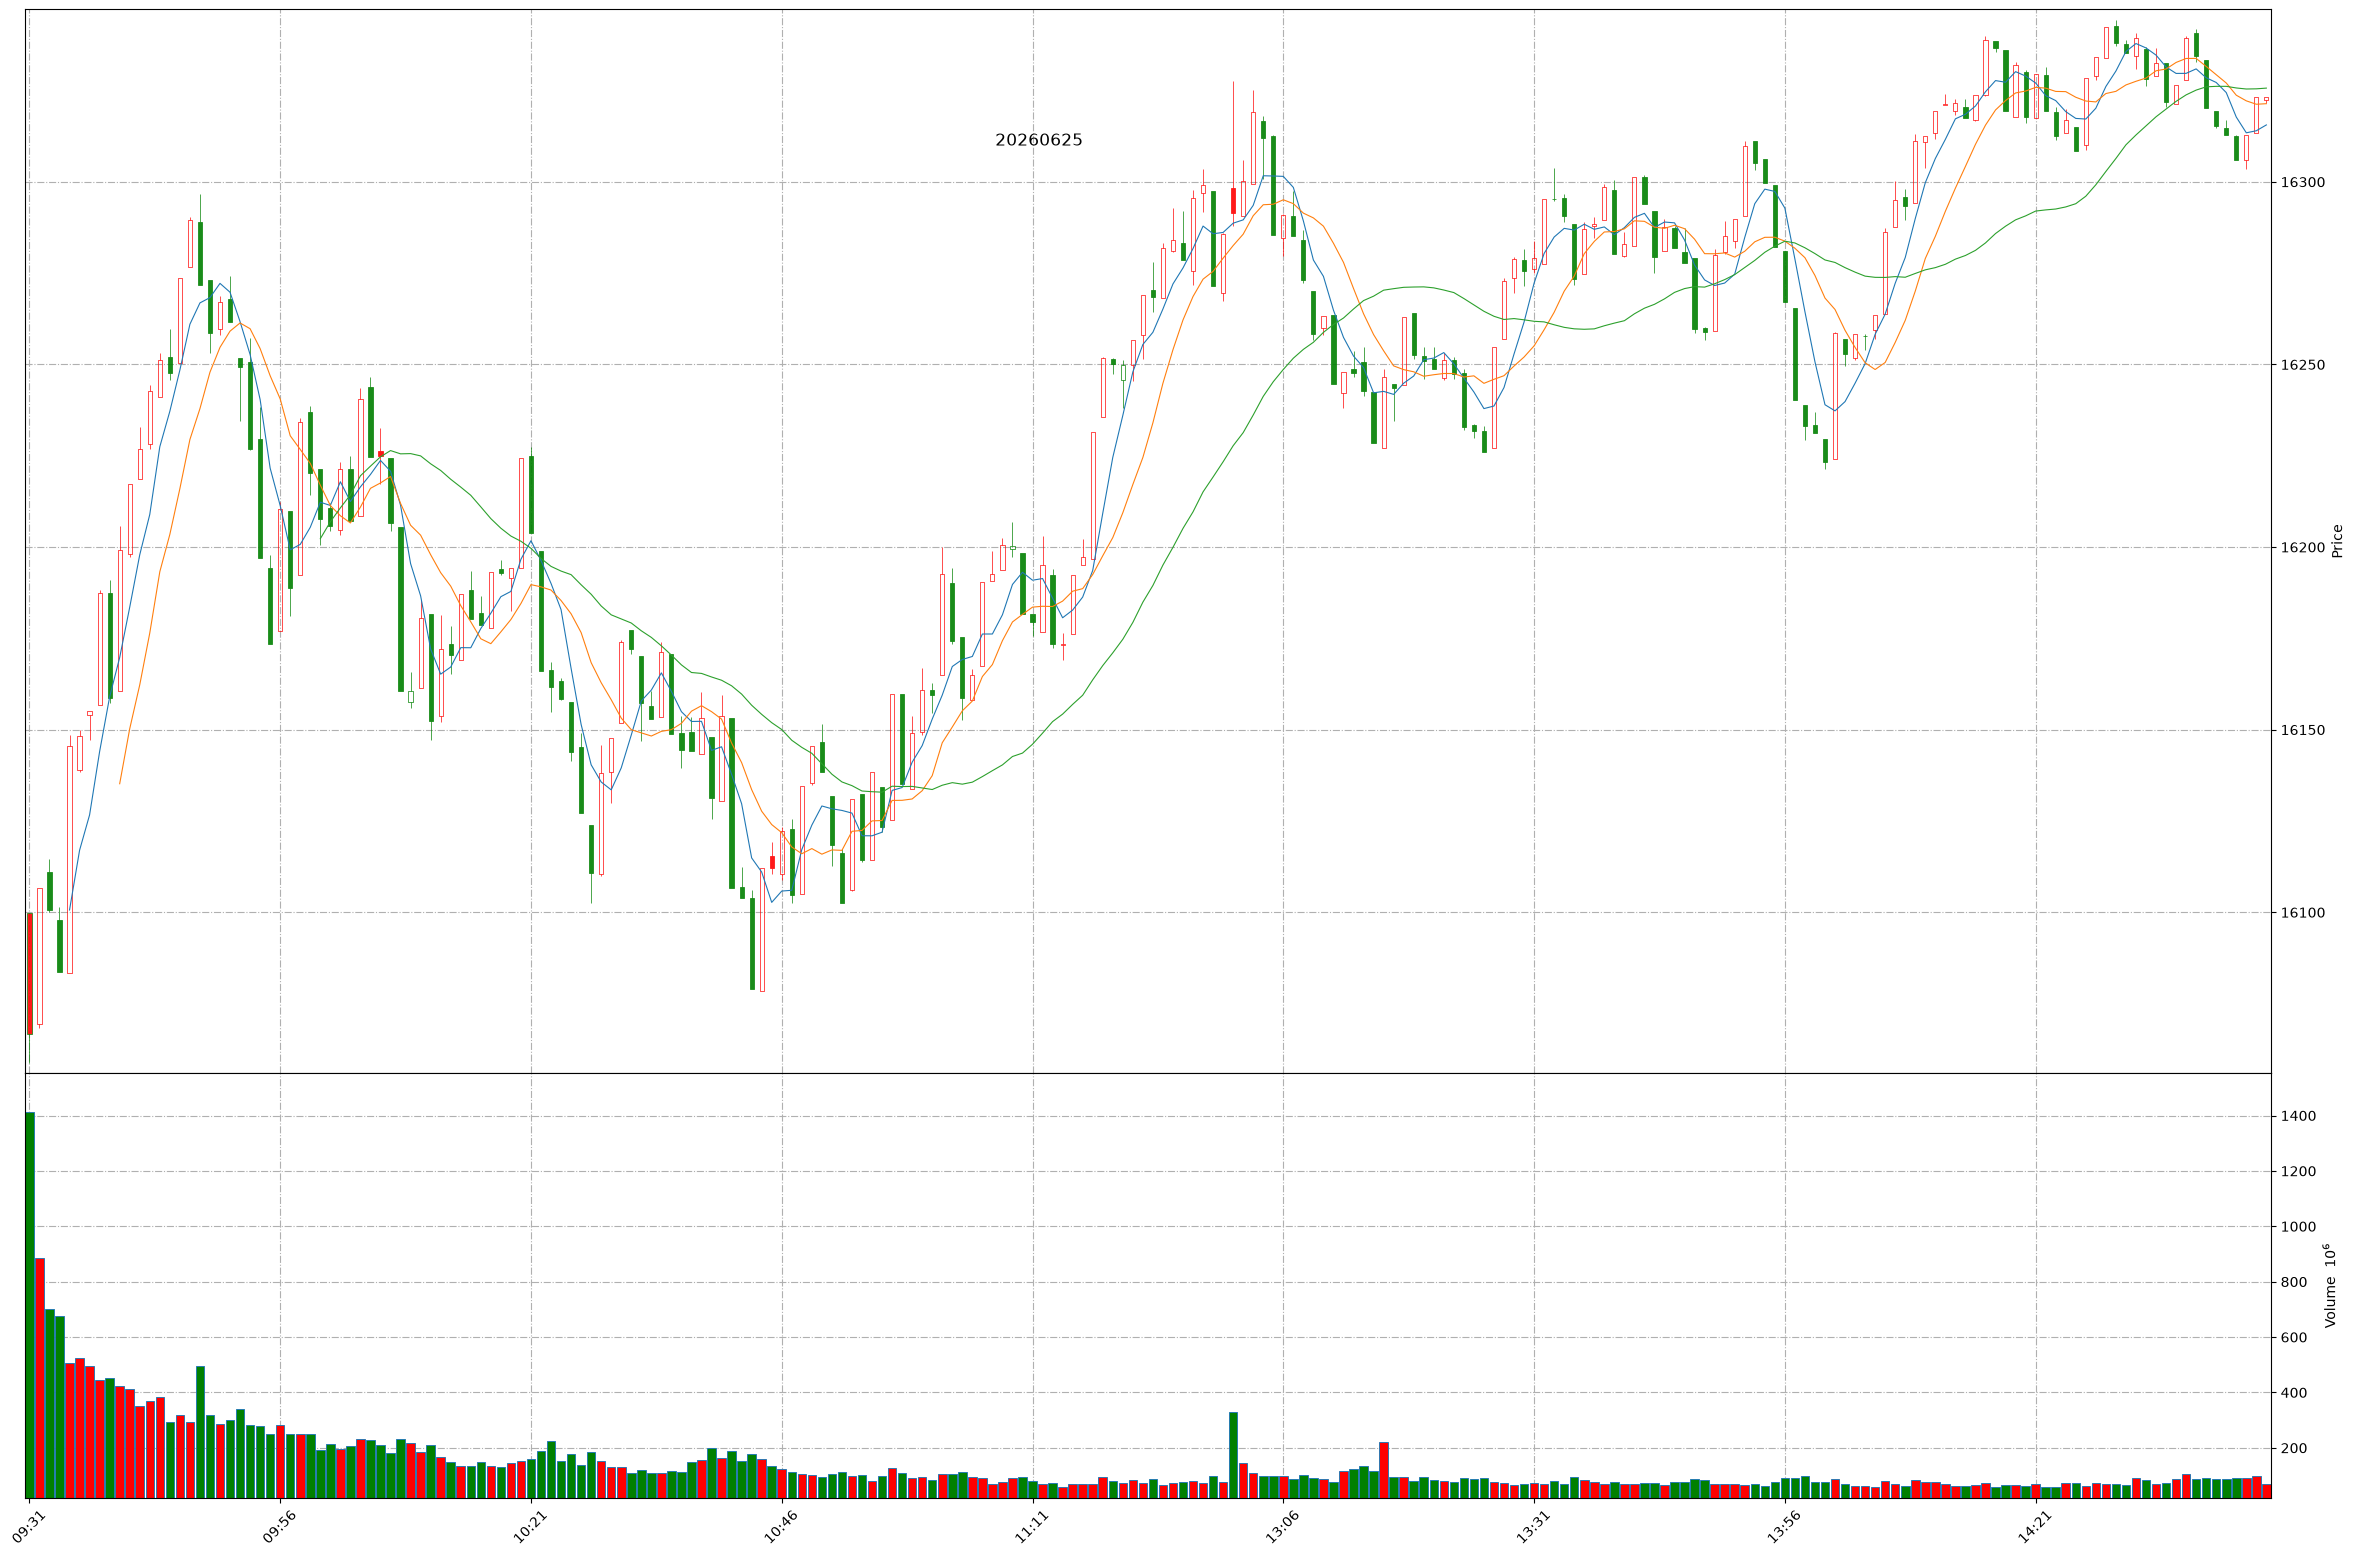
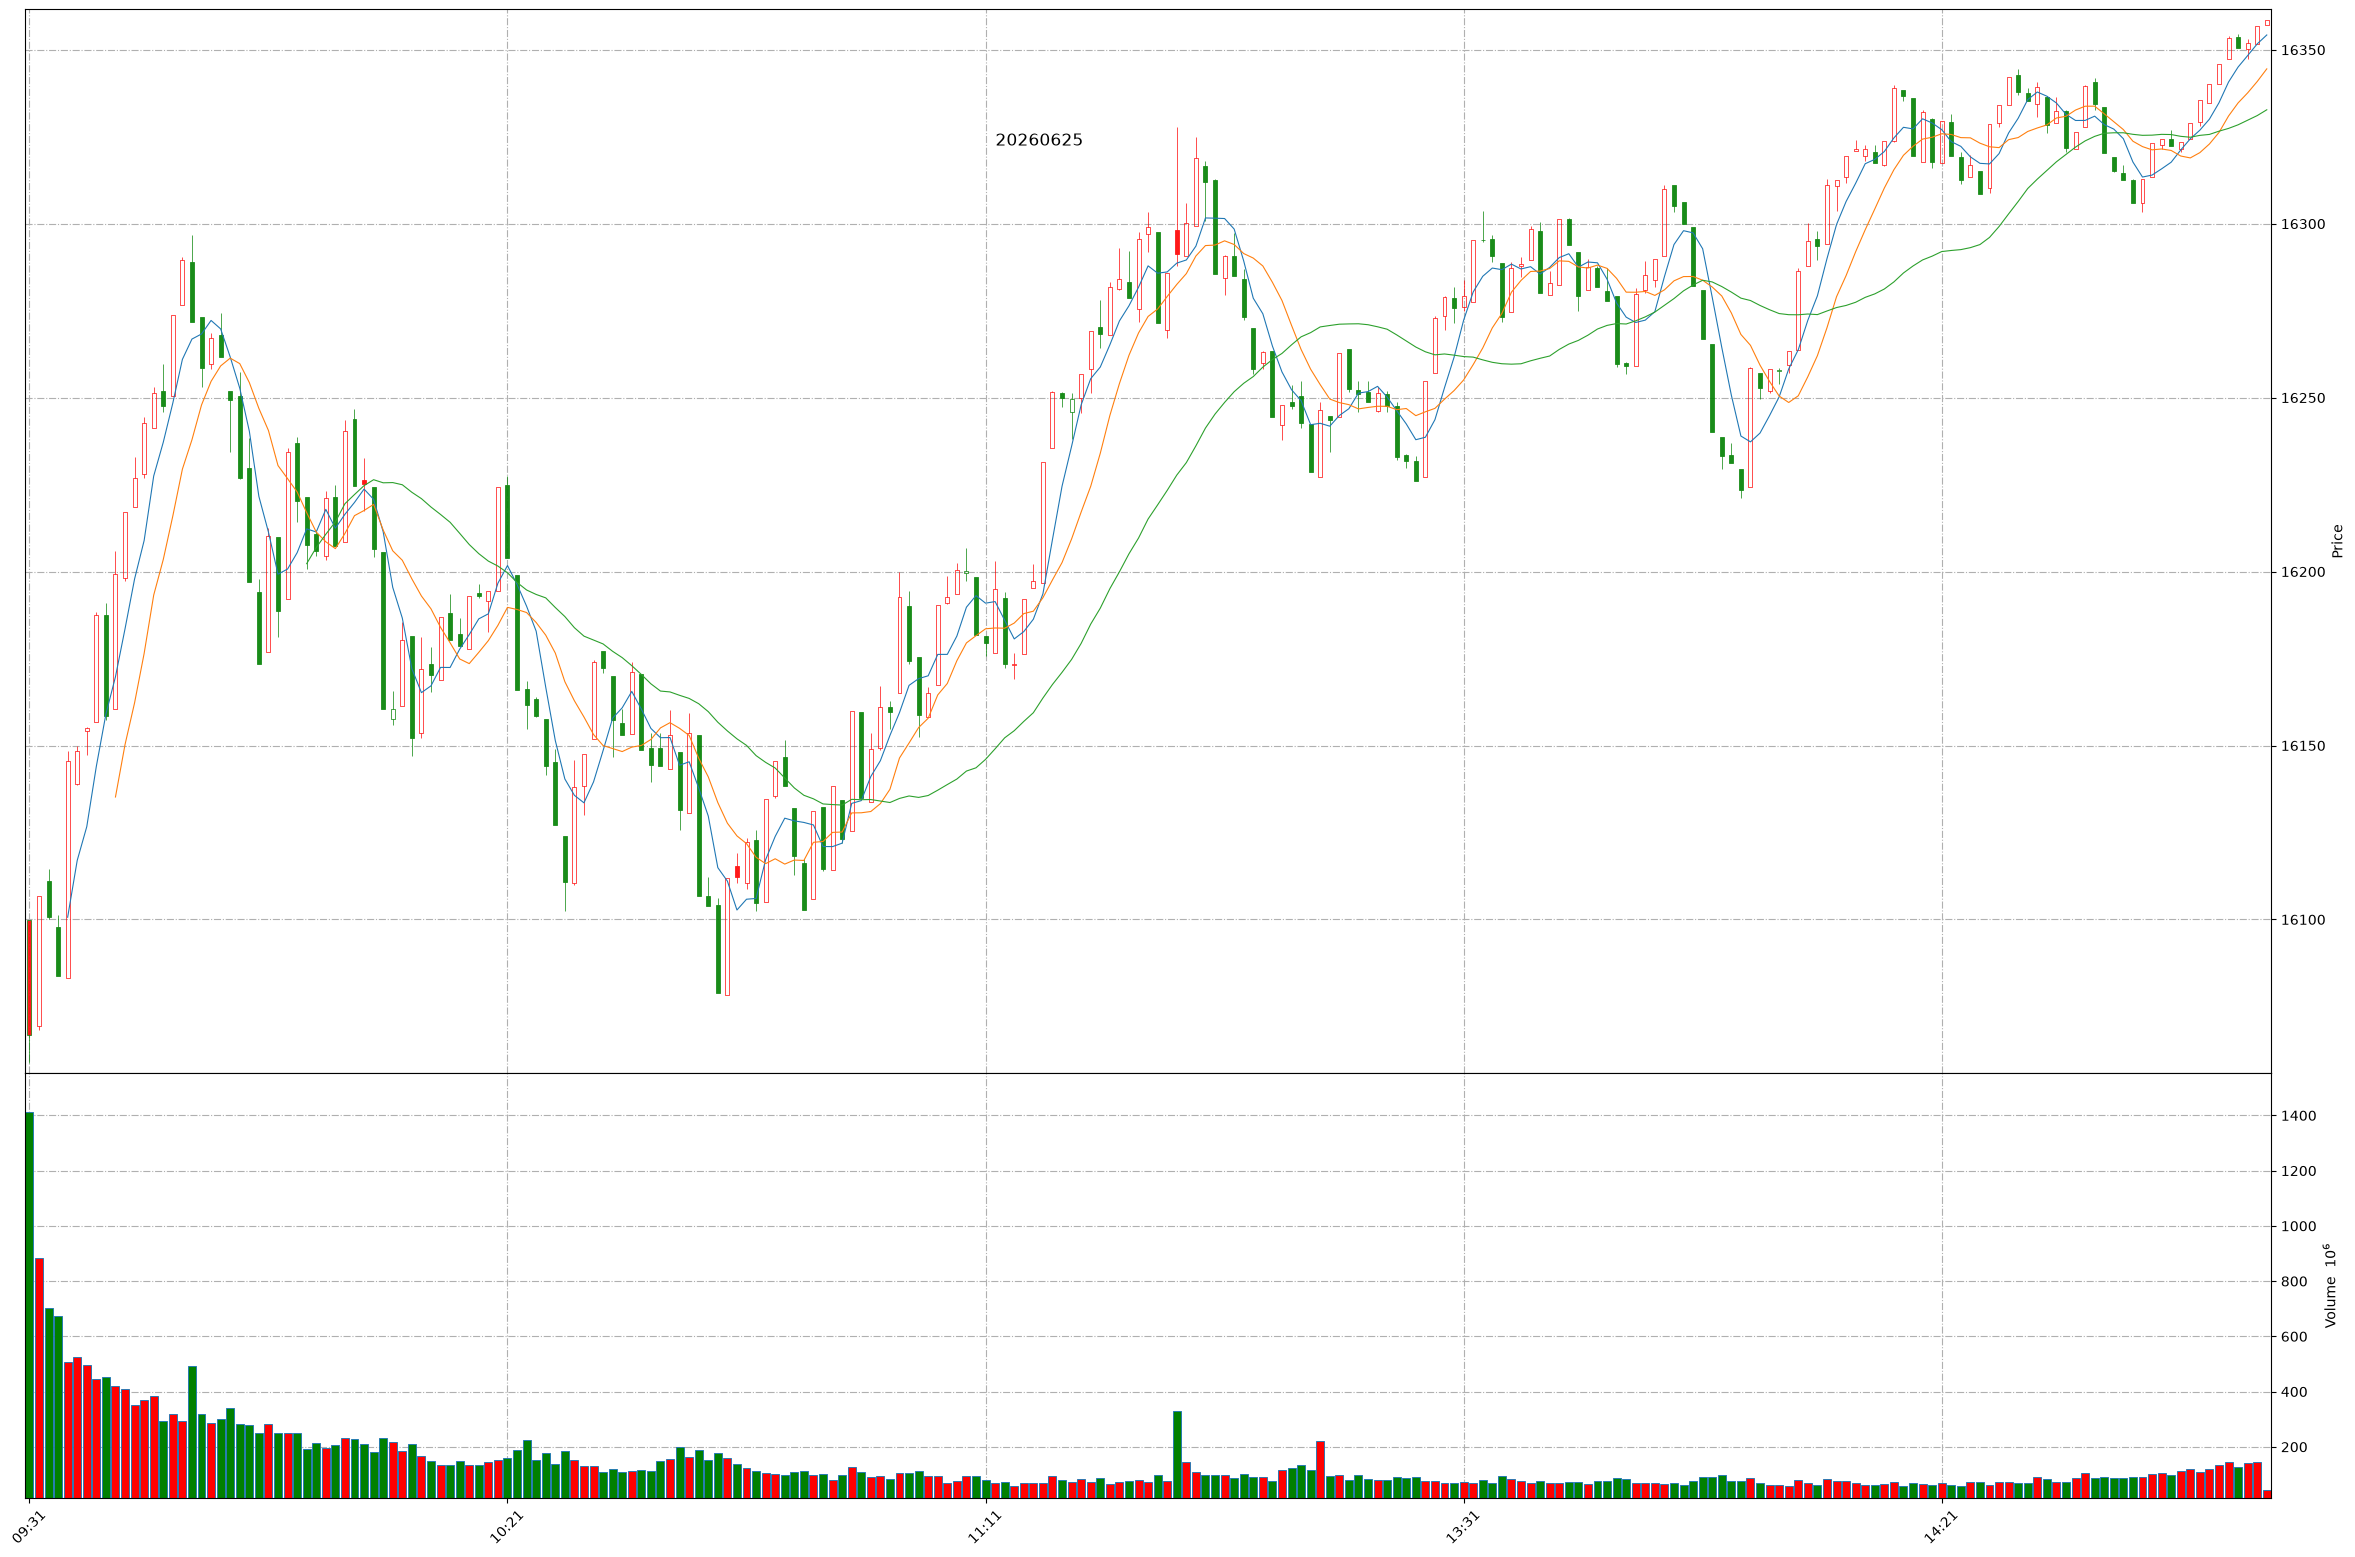
Github action update at 2026-06-25 14:54:24.

diff --git a/README.md b/README.md
@@ -1,11 +1,11 @@
 
 # Daily-A-share-market-quotes 每日 A 股指数（5min 更新）- 20260625
 
-### 上证指数 20260625 14:43
+### 上证指数 20260625 14:54
 ![](./fig/2026/6/20260625-sh000001.png)
 
-### 深证成指 20260625 14:43
+### 深证成指 20260625 14:54
 ![](./fig/2026/6/20260625-sz399001.png)
 
-### 北证50 20260625 14:43
+### 北证50 20260625 14:54
 ![](./fig/2026/6/20260625-bj899050.png)
